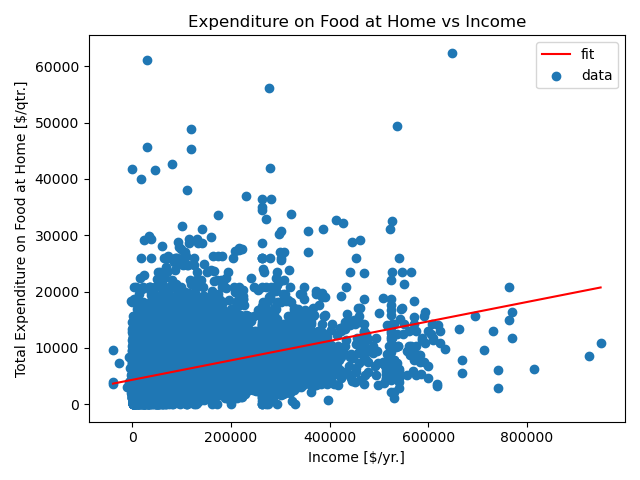
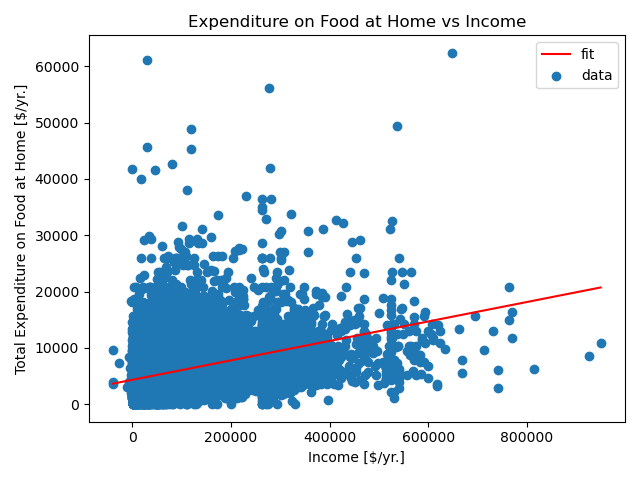
Many updates
csv and txt outputs, updated plot labels, robust regression, fewer variables in the describe

Changed region(s): [[0.0, 0.1562, 0.0625, 0.7812]]

diff --git a/HW2/SS340_HW2.py b/HW2/SS340_HW2.py
@@ -17,21 +17,34 @@ import matplotlib.pyplot as plt
 # close any currently open plots
 plt.close("all")
 
+with open("summary.txt", "w") as f:
+    f.truncate()
+
 # =============================================================================
 # Useful Functions
 # =============================================================================
 def run_regression(x, y, xlabel, ylabel, title, save_title):
+    # add the x data to the model
     x_sm = sm.add_constant(x)
-    model = sm.OLS(y, x_sm).fit()
+    
+    # fit the model using robust regression
+    model = sm.OLS(y, x_sm).fit(cov_type="HC1")
     print(model.summary())
     
-    stata_summary = summary_col(model, stars=True, float_format='%0.3f')
+    # create and print the stata-style summary table; save to a txt
+    stata_summary = summary_col(model, stars=True, float_format='%0.2f')
     print(stata_summary)
+    with open('summary.txt', 'a') as f:
+        f.write(stata_summary.as_text())
     
+    # add new x data for the plot fit line
     x_cont = np.linspace(x.min(), x.max(), 1000)
     x_cont_sm = sm.add_constant(x_cont)
+    
+    # generate the regression y data
     y_fit = model.predict(x_cont_sm)
     
+    # plot the data with the regression line
     plt.figure()
     plt.scatter(x, y, label="data")
     plt.plot(x_cont, y_fit, 'r', label="fit")
@@ -42,6 +55,8 @@ def run_regression(x, y, xlabel, ylabel, title, save_title):
     plt.tight_layout()
     plt.show()
     plt.savefig(save_title)
+    
+    
     
     return model.params, model.pvalues[1], stata_summary
 
@@ -68,7 +83,15 @@ with open("important_columns.txt", "r") as f:
 
 
 # columns that I want to summarize
-summary_cols = set(columns) - {"newid", "fam_size", "num_auto"}
+summary_cols = ["fincbtxm",
+                "totexpcq",
+                "totexppq",
+                "alcbevcq",
+                "alcbevpq",
+                "foodcq",
+                "foodpq",
+                "fdhomecq",
+                "fdhomepq"]
     
 # import the 4 quarters of data
 data_19q1 = pd.read_csv("fmli191x.csv", usecols=columns)
@@ -83,8 +106,10 @@ data_19 = pd.concat([data_19q1, data_19q2, data_19q3, data_19q4],
 # =============================================================================
 # Summary Statistics, Part 2(b)
 # =============================================================================
-# save and print the summary statistics of the data
+# save and print the summary statistics of the data; save to a csv
 data_19_describe = data_19[summary_cols].describe().round(2)
+important_statistics = ["mean", "std", "min", "max"]
+data_19_describe.loc[important_statistics].to_csv("SS340_HW2_Describe.csv")
 print(data_19_describe)
 
 # =============================================================================
@@ -98,12 +123,6 @@ data_19["totexp"] = data_19[["totexpcq", "totexppq"]].sum(axis=1)*4
 data_19["food"] = data_19[["foodcq", "foodpq"]].sum(axis=1)*4
 data_19["alcbev"] = data_19[["alcbevcq", "alcbevpq"]].sum(axis=1)*4
 data_19["fdhome"] = data_19[["fdhomecq", "fdhomepq"]].sum(axis=1)*4
-data_19["fdmap"] = data_19[["fdmapcq", "fdmappq"]].sum(axis=1)*4
-data_19["fdaway"] = data_19[["fdawaycq", "fdawaypq"]].sum(axis=1)*4
-data_19["majapp"] = data_19[["majappcq", "majapppq"]].sum(axis=1)*4
-data_19["tentrmn"] = data_19[["tentrmnc", "tentrmnp"]].sum(axis=1)*4
-data_19["educa"] = data_19[["educacq", "educapq"]].sum(axis=1)*4
-data_19["elctrc"] = data_19[["elctrccq", "elctrcpq"]].sum(axis=1)*4
 
 # remove individuals that: (1) have 0 food spending, (2) negative expenditures
 before = data_19.shape[0]
@@ -112,26 +131,21 @@ after = data_19.shape[0]
 dropped = before - after
 print(f"Dropped {dropped} row(s) for food <= 0")
 
-# rows that contain expenditures (besides food)
-exp_cols = ["totexp",
-            "alcbev",
-            "fdhome",
-            "fdmap",
-            "fdaway",
-            "majapp",
-            "tentrmn",
-            "educa",
-            "elctrc"]
 before = data_19.shape[0]
-for col in exp_cols:
-    data_19.drop(data_19[data_19[col] < 0].index, inplace=True)
+data_19.drop(data_19[data_19["totexp"] <= 0].index, inplace=True)
 after = data_19.shape[0]
 dropped = before - after
-print(f"Dropped {dropped} row(s) for expenditures < 0")
+print(f"Dropped {dropped} row(s) for totexp <= 0")
 
-# Summary statistics after cleaning the data
-summary_cols2 = set(data_19.columns) - {"newid", "fam_size", "num_auto"}
+# Summary statistics after cleaning the data; print to console & save to a csv
+summary_cols2 = ["fincbtxm",
+                 "totexp",
+                 "food",
+                 "alcbev",
+                 "fdhome",
+                 "hiincome"]
 data_19_describe2 = data_19[summary_cols2].describe().round(2)
+data_19_describe2.loc[important_statistics].to_csv("SS340_HW2_Describe2.csv")
 print(data_19_describe2)
 
 # =============================================================================
@@ -144,14 +158,14 @@ alpha = 0.05
 result = run_regression(data_19["fincbtxm"].to_numpy(),
                         data_19["totexp"].to_numpy(),
                         "Income [$/yr.]",
-                        "Total Expenditure [$/qtr.]",
+                        "Total Expenditure [$/yr.]",
                         "Expenditure vs Income for All Data",
                         "SS340_HW1_expvsincall.png")
 
 [beta_0, beta_1], p_val, stata_summary = result
 
 print("\nPart 2e")
-print(f"{beta_0=:.3f}, {beta_1=:.3f}")
+print(f"{beta_0=:.2f}, {beta_1=:.2f}")
 print("beta_0 null hypothesis test:", end=" ")
 null_hypothesis_test(p_val, alpha)
 
@@ -162,14 +176,14 @@ null_hypothesis_test(p_val, alpha)
 result = run_regression(data_19["fincbtxm"][data_19["hiincome"]].to_numpy(),
                         data_19["totexp"][data_19["hiincome"]].to_numpy(),
                         "Income [$/yr.]",
-                        "Total Expenditure [$/qtr.]",
+                        "Total Expenditure [$/yr.]",
                         "Expenditure vs Income for High-Income HHs",
                         "SS340_HW1_expvsinchiincome.png")
 
 [beta_0, beta_1], p_val, stata_summary = result
 
 print("\nPart 2f high-income")
-print(f"{beta_0=:.3f}, {beta_1=:.3f}")
+print(f"{beta_0=:.2f}, {beta_1=:.2f}")
 print("beta_0 null hypothesis test:", end=" ")
 null_hypothesis_test(p_val, alpha)
 
@@ -177,14 +191,14 @@ null_hypothesis_test(p_val, alpha)
 result = run_regression(data_19["fincbtxm"][~data_19["hiincome"]].to_numpy(),
                         data_19["totexp"][~data_19["hiincome"]].to_numpy(),
                         "Income [$/yr.]",
-                        "Total Expenditure [$/qtr.]",
+                        "Total Expenditure [$/yr.]",
                         "Expenditure vs Income for Low-Income HHs",
                         "SS340_HW1_expvsincloincome.png")
 
 [beta_0, beta_1], p_val, stata_summary = result
 
 print("\nPart 2f low-income")
-print(f"{beta_0=:.3f}, {beta_1=:.3f}")
+print(f"{beta_0=:.2f}, {beta_1=:.2f}")
 print("beta_0 null hypothesis test:", end=" ")
 null_hypothesis_test(p_val, alpha)
 
@@ -196,27 +210,27 @@ print("\nPart 2g Essential vs Non-Essential Foods")
 result = run_regression(data_19["fincbtxm"].to_numpy(),
                         data_19["fdhome"].to_numpy(),
                         "Income [$/yr.]",
-                        "Total Expenditure on Food at Home [$/qtr.]",
+                        "Total Expenditure on Food at Home [$/yr.]",
                         "Expenditure on Food at Home vs Income",
                         "SS340_HW1_fdhomevsincome.png")
 
 [beta_0, beta_1], p_val, stata_summary = result
 
 print("Essential")
-print(f"{beta_0=:.3f}, {beta_1=:.3f}")
-print("beta_0 null hypothesis test:", end=" ")
+print(f"{beta_0=:.2f}, {beta_1=:.2f}")
+print("fdhome beta_0 null hypothesis test:", end=" ")
 null_hypothesis_test(p_val, alpha)
 
 result = run_regression(data_19["fincbtxm"].to_numpy(),
                         data_19["alcbev"].to_numpy(),
                         "Income [$/yr.]",
-                        "Total Expenditure on Alcohol [$/qtr.]",
+                        "Total Expenditure on Alcohol [$/yr.]",
                         "Expenditure on Alcohol vs Income",
                         "SS340_HW1_alcbevvsincome.png")
 
 [beta_0, beta_1], p_val, stata_summary = result
 
 print("Non-Essential")
-print(f"{beta_0=:.3f}, {beta_1=:.3f}")
-print("beta_0 null hypothesis test:", end=" ")
+print(f"{beta_0=:.2f}, {beta_1=:.2f}")
+print("alcbev beta_0 null hypothesis test:", end=" ")
 null_hypothesis_test(p_val, alpha)
